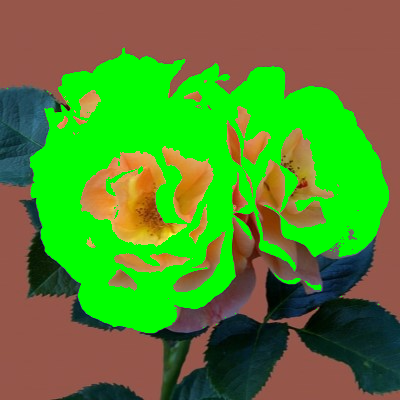
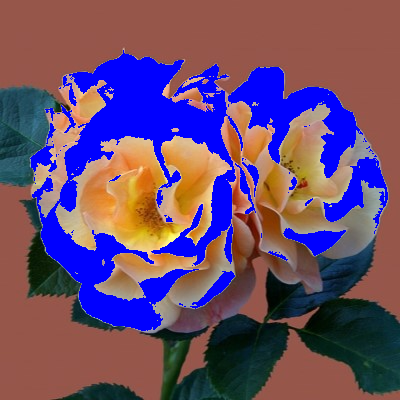
changed fill to set any color to any other color

diff --git a/src/image.cpp b/src/image.cpp
@@ -419,15 +419,18 @@ Image Image::bitmap(int size) const {
    return result;
 }
 
-Image Image::fill(const Pixel& c) {
-   std::cout << "Filling with color " << (int) c.r << " " << (int) c.g << " " << (int) c.b << std::endl;
+Image Image::fill(const Pixel& a, const Pixel& b) {
+   std::cout << "Filling color " << (int) b.r << " " << (int) b.g << " " << (int) b.b << " with color " << (int) b.r << " " << (int) b.g << " " << (int) b.b << std::endl;
    Image result(*this);
-   for (int idx = 0; idx < result.width() * result.height(); idx++) {
+   for (int idx = 0; idx < this->_width * this->_height; idx++) {
       Pixel px = this->get(idx);
-      if (px.r > 100 && px.g > 100 && px.b > 100) {
-         px.r = c.r;
-         px.g = c.g;
-         px.b = c.b;
+      int diffR = abs(a.r - px.r);
+      int diffG = abs(a.g - px.g);
+      int diffB = abs(a.b - px.b);
+      if (diffR < 100 && diffG < 100 && diffB < 100) {
+         px.r = b.r;
+         px.g = b.g;
+         px.b = b.b;
       }
       result.set(idx, px);
    }

diff --git a/src/pixmap_test.cpp b/src/pixmap_test.cpp
@@ -134,9 +134,9 @@ int main(int argc, char** argv)
    bitmap.save("../demo/earth-bitmap.png"); 
 
    // fill
-   Image fill = image.fill({255, 0, 0});
+   Image fill = image.fill({255, 255, 255}, {255, 0, 0});
    fill.save("../demo/earth-fill.png"); 
-   Image fill2 = rose.fill({0, 255, 0});
+   Image fill2 = rose.fill({255, 255, 255}, {0, 0, 255});
    fill2.save("../demo/rose-fill.png"); 
 
    // glitch

diff --git a/src/pixmap_art.cpp b/src/pixmap_art.cpp
@@ -33,7 +33,7 @@ int main(int argc, char** argv)
    // Image art3 = bricks.glitch().gradient("vertical", {255, 255, 255}).gradient("horizontal", {255, 0, 0}).bitmap(10).sobel().distort();
    // art3.save("../art/art-3.png");
 
-   Image art4 = abstract.distort();
+   Image art4 = abstract.glitch();
    art4.save("../art/art-4.png");
 
    return 0;

diff --git a/src/image.h b/src/image.h
@@ -195,8 +195,8 @@ class Image {
   // return a bitmap version of this image
   Image bitmap(int size) const;
 
-  // Fill this image with a color
-  Image fill(const Pixel& c);
+  // Fill pixels of certain color with another color
+  Image fill(const Pixel& a, const Pixel& b);
 
   // Apply simple box blur to image 
   Image blur() const;
